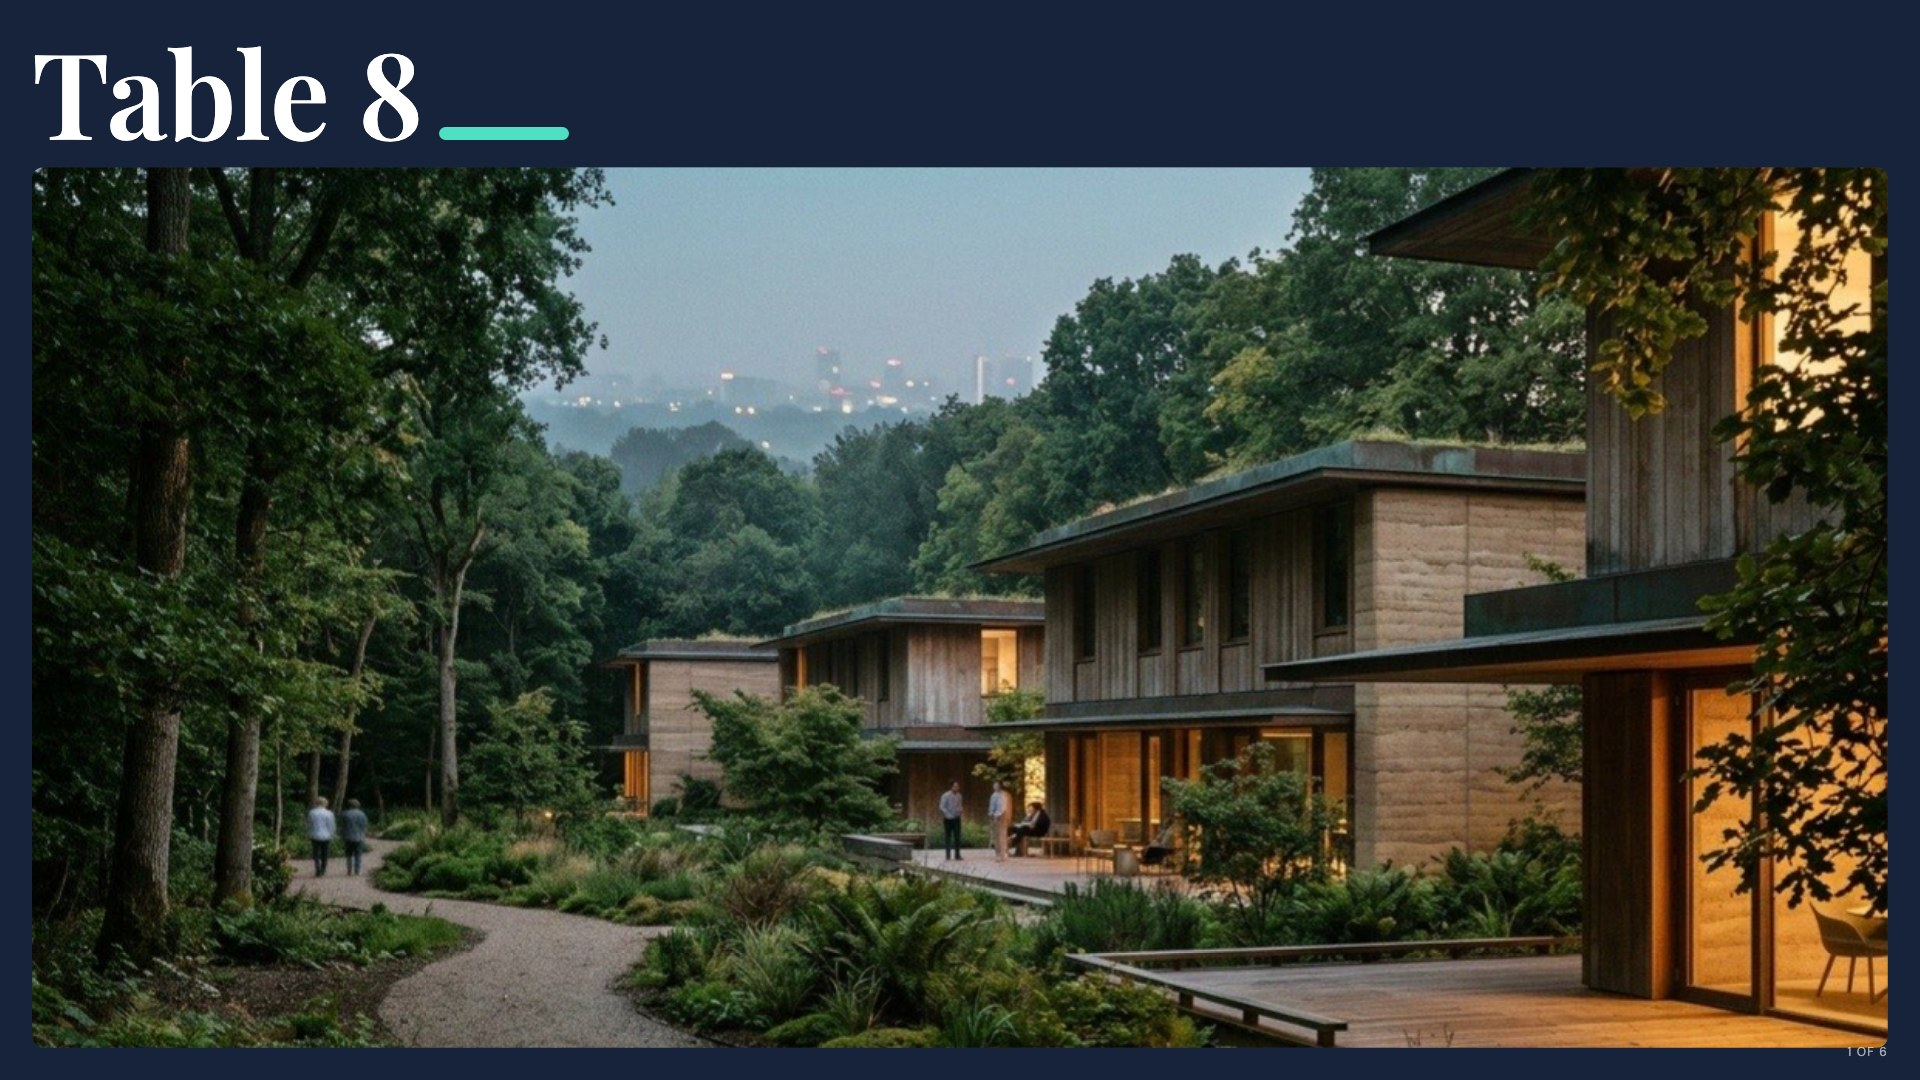
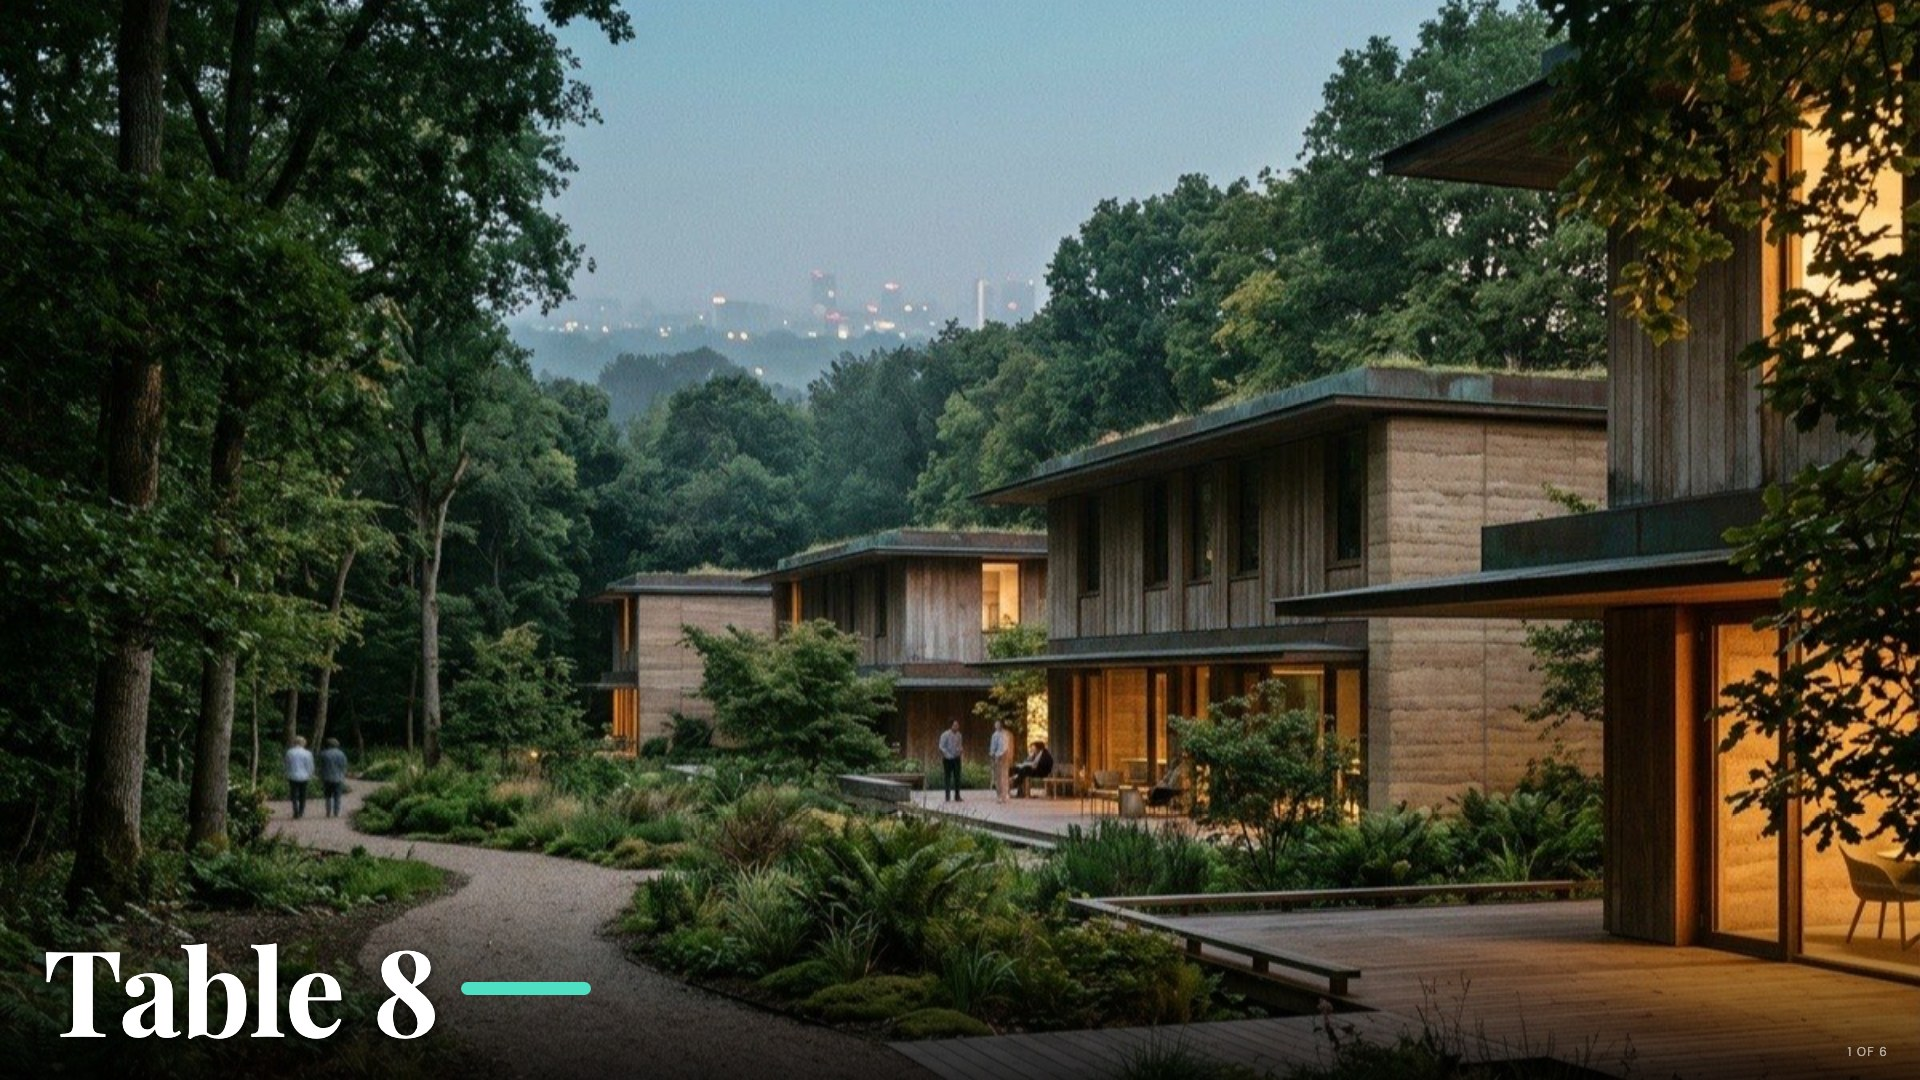
fix(projector): give the focus beat the whole frame at full brightness
Two things made the render read as dim from across the room.

It was inset: a header band above the stage and padding on all four
sides, so the picture sat in a navy surround. The render now fills the
frame and the table number rides a bottom gradient over it.

And it was blinking through its own background. Each zone holds one slot
of the crossfade loop, a quarter of it with four zones, but the curve
went opaque only from 2% to 23% and back to zero by 25%, so for the two
percent before the next zone faded up there was nothing on screen but
the panel behind it. On the wall that is a navy wash pulsing through the
picture. The zones now overlap instead of leaving a gap.

The reveal tile strip reported at 1920x1080 was a property of the old
band grid and is gone with the paged layout, which sizes tiles from the
grid rather than from how many tables have rendered. A capture assertion
now measures tile height at both sizes rather than relying on that
reasoning.

Claude-Session: https://claude.ai/code/session_013nLucFXCUYBvG6fEPKyxjF

diff --git a/src/lib/ui/projector/TableSequence.svelte b/src/lib/ui/projector/TableSequence.svelte
@@ -37,10 +37,6 @@
      pipeline, no video file — pure CSS, reuses images already on screen
      elsewhere in the finale. -->
 <section class="sequence" style:--loop="{loopSeconds}s" style:--accent={accent}>
-	<header>
-		<span class="table-no">Table {table.table}</span>
-		<span class="lens-band" aria-hidden="true"></span>
-	</header>
 	<div class="stage">
 		{#if shown.length === 0}
 			<div class="empty">no zones drawn yet</div>
@@ -58,25 +54,40 @@
 			</div>
 		{/each}
 	</div>
+	<!-- Over the picture, not above it: the render gets the whole frame and
+	     the number rides a bottom gradient. A header band pushed the image
+	     down and read as a dim strip of navy across the top of the wall. -->
+	<footer>
+		<span class="table-no">Table {table.table}</span>
+		<span class="lens-band" aria-hidden="true"></span>
+	</footer>
 </section>
 
 <style>
+	/* FULL BLEED. The render is the beat; everything else sits on top of it.
+	   The previous version padded the frame and put a header band above the
+	   stage, so on the wall the picture was inset in navy on all four sides
+	   and read as dim from across the room. */
 	.sequence {
+		position: relative;
 		height: 100%;
-		display: flex;
-		flex-direction: column;
-		padding: 2rem;
-		gap: 1rem;
+		overflow: hidden;
 	}
-	header {
+	footer {
+		position: absolute;
+		inset: auto 0 0 0;
 		display: flex;
-		align-items: baseline;
-		gap: 1rem;
+		align-items: center;
+		gap: 2vh;
+		padding: 3vh 4vh;
+		background: linear-gradient(0deg, rgba(0, 0, 0, 0.75), transparent);
 	}
 	.table-no {
 		font-family: 'Playfair Display', Georgia, serif;
 		font-size: var(--type-table-no);
 		line-height: 1;
+		font-weight: 700;
+		text-shadow: 0 2px 12px rgba(0, 0, 0, 0.8);
 	}
 	/* The lens as a colour band. Never as a word: naming the future on the
 	   wall would hand the room the analysis it is supposed to arrive at. */
@@ -88,19 +99,17 @@
 		background: var(--accent);
 	}
 	.stage {
-		position: relative;
-		flex: 1;
-		min-height: 0;
+		position: absolute;
+		inset: 0;
 		display: flex;
-		gap: 0.75rem;
+		gap: 2px;
 	}
 	.panel {
 		position: relative;
 		flex: 1 1 0;
 		min-width: 0;
-		border-radius: 0.75rem;
 		overflow: hidden;
-		background: var(--card);
+		background: #000;
 	}
 	.stage img {
 		position: absolute;
@@ -126,6 +135,15 @@
 		font-size: var(--type-caption);
 	}
 
+	/* THE ZONES MUST CROSS-DISSOLVE, NOT BLINK THROUGH THE BACKGROUND.
+	   Each image holds one slot of the loop, and with four zones a slot is
+	   25%. The old curve was opaque only from 2% to 23% and back to zero by
+	   25%, so for the two percent before the next zone began fading in there
+	   was nothing on screen but the panel behind it — on the wall a navy
+	   wash pulsing through the picture, which reads as a dim image rather
+	   than as a transition. Holding to 25% and releasing over the next two,
+	   while the following zone fades up across the same window, makes the
+	   two overlap instead. */
 	@keyframes kenburns {
 		0% {
 			opacity: 0;
@@ -134,11 +152,11 @@
 		2% {
 			opacity: 1;
 		}
-		23% {
+		25% {
 			opacity: 1;
 			transform: scale(1.08) translate(-1.5%, 1.5%);
 		}
-		25% {
+		27% {
 			opacity: 0;
 		}
 		100% {
@@ -158,11 +176,11 @@
 			2% {
 				opacity: 1;
 			}
-			23% {
+			25% {
 				opacity: 1;
 				transform: none;
 			}
-			25% {
+			27% {
 				opacity: 0;
 			}
 			100% {

diff --git a/tests/e2e/projector-screens.spec.ts b/tests/e2e/projector-screens.spec.ts
@@ -70,6 +70,24 @@ test.describe('projector wall captures', () => {
 		await capture(page, '/projector?fixtures=1&beat=reveal&aspect=16x9', 'projector-reveal-5760x1080-forced-16x9');
 	});
 
+	test('a reveal tile is a picture, not a strip', async ({ page }) => {
+		// Live at 1920x1080 the old grid collapsed each tile's image to about
+		// 25px of the frame with empty navy beneath it. The paged layout sizes
+		// tiles from the grid rather than from the number of tables, so the
+		// bug cannot come back with more data — this measures it anyway,
+		// because that is the assertion, not the reasoning.
+		for (const size of [WALL, TV]) {
+			await page.setViewportSize(size);
+			await page.goto('/projector?fixtures=1&beat=reveal');
+			await page.waitForLoadState('networkidle');
+			const boxes = await page.locator('figure img').evaluateAll((els) =>
+				els.map((e) => e.getBoundingClientRect().height)
+			);
+			expect(boxes.length).toBeGreaterThan(0);
+			for (const h of boxes) expect(h).toBeGreaterThan(size.height * 0.3);
+		}
+	});
+
 	test('the room ledger is its own surface, not a shrunken wall', async ({ page }) => {
 		// The two ceiling televisions. Captured at 1920x1080 only: they are
 		// 16:9 panels, and the point of the surface is that it does NOT
